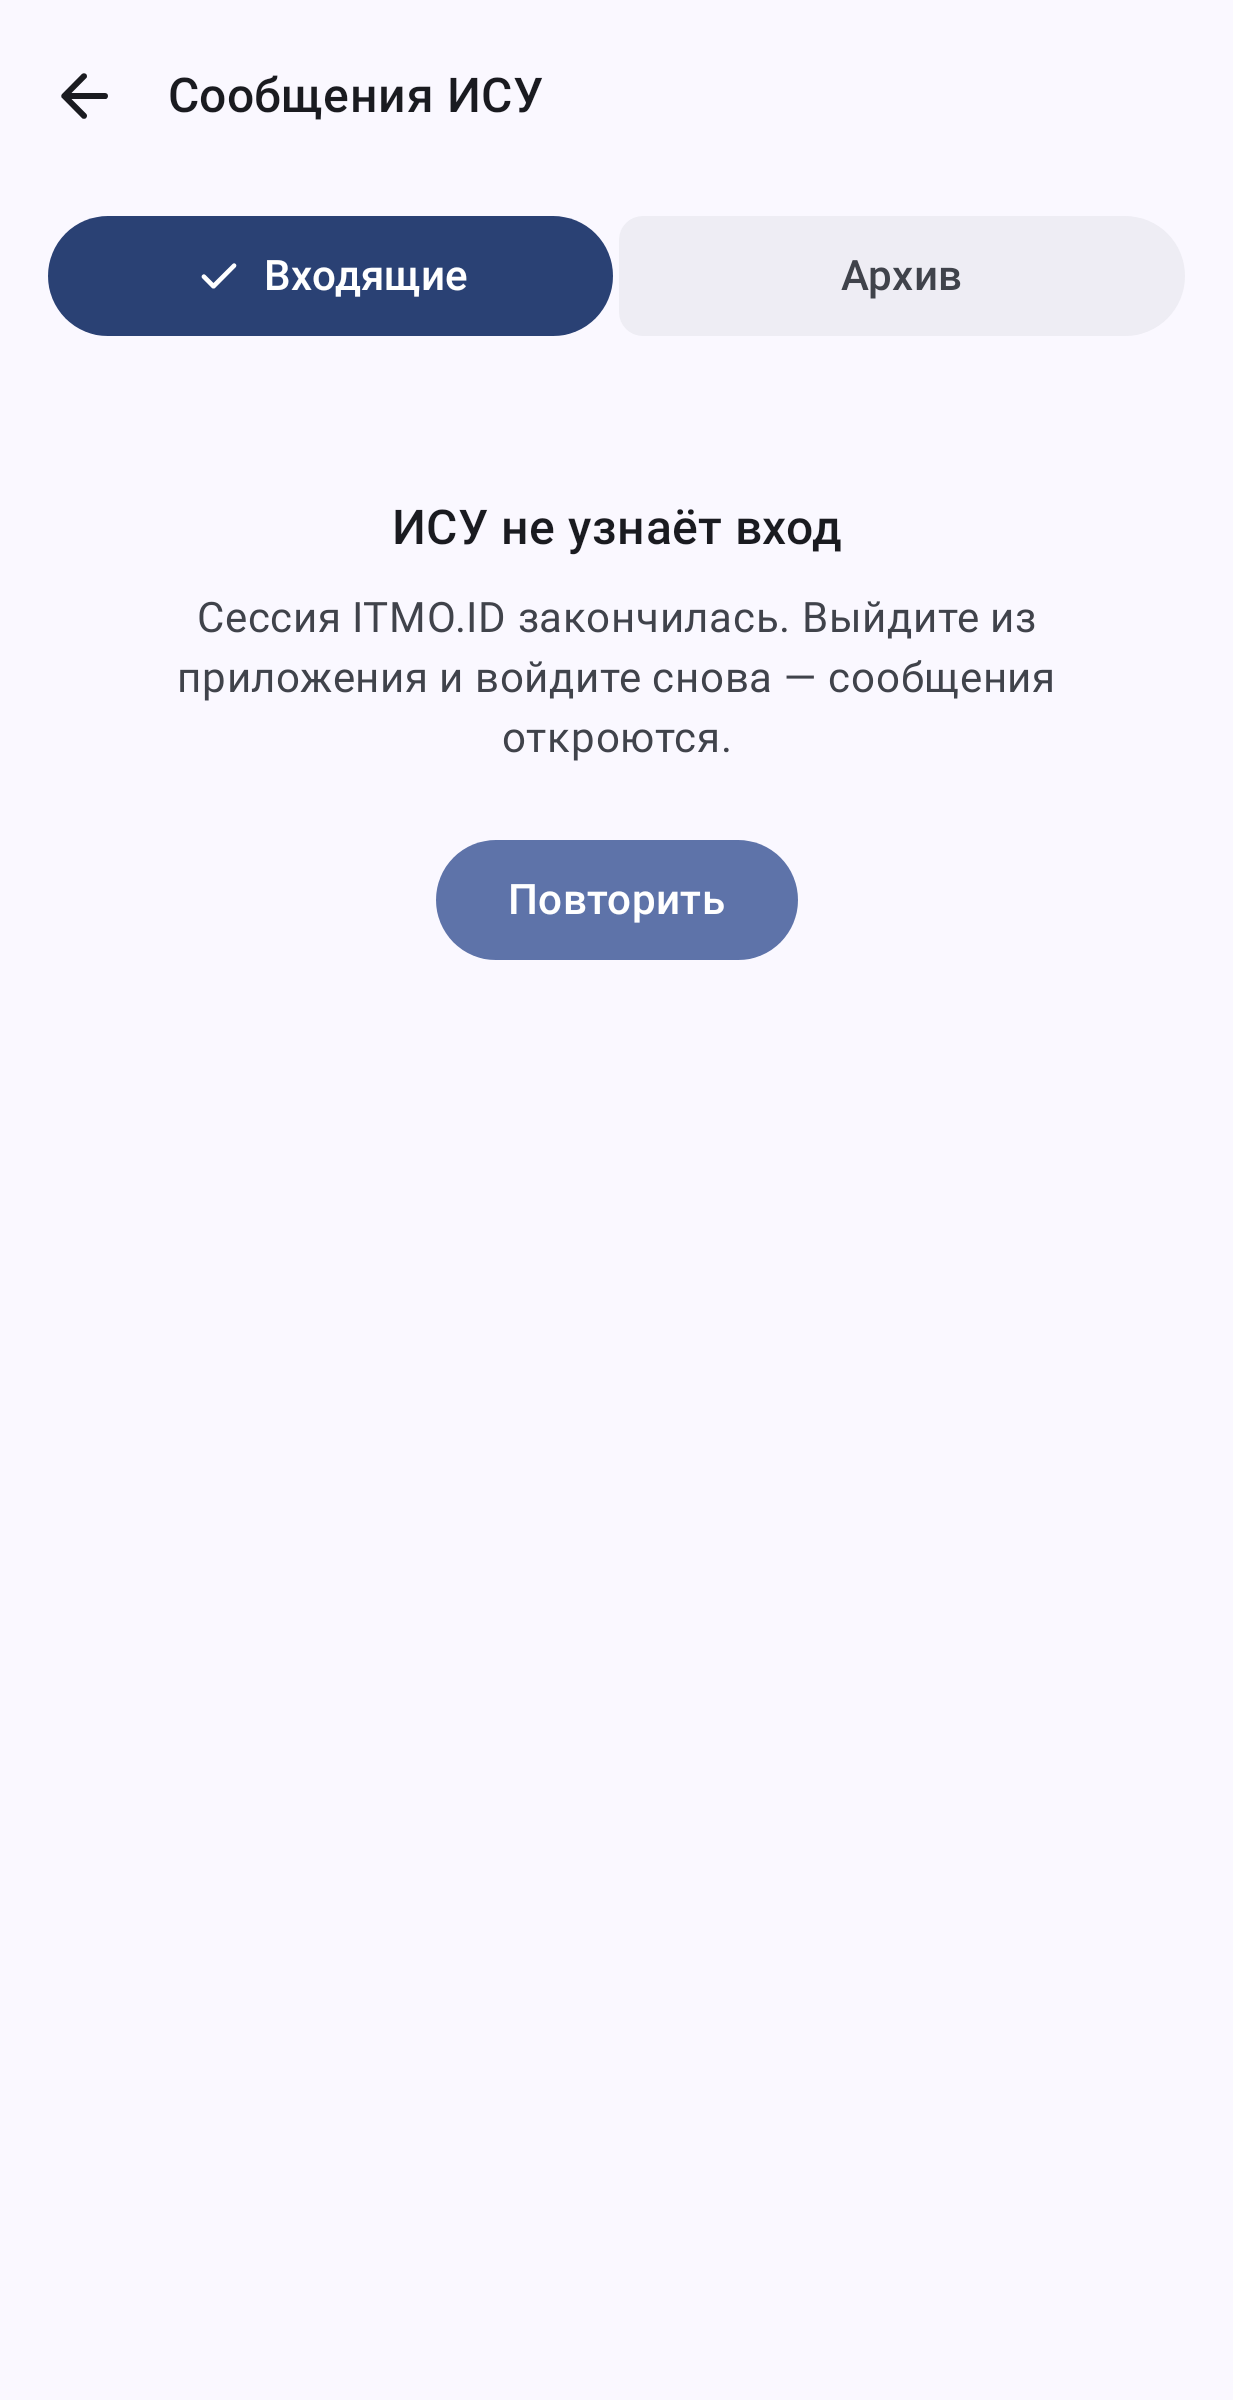
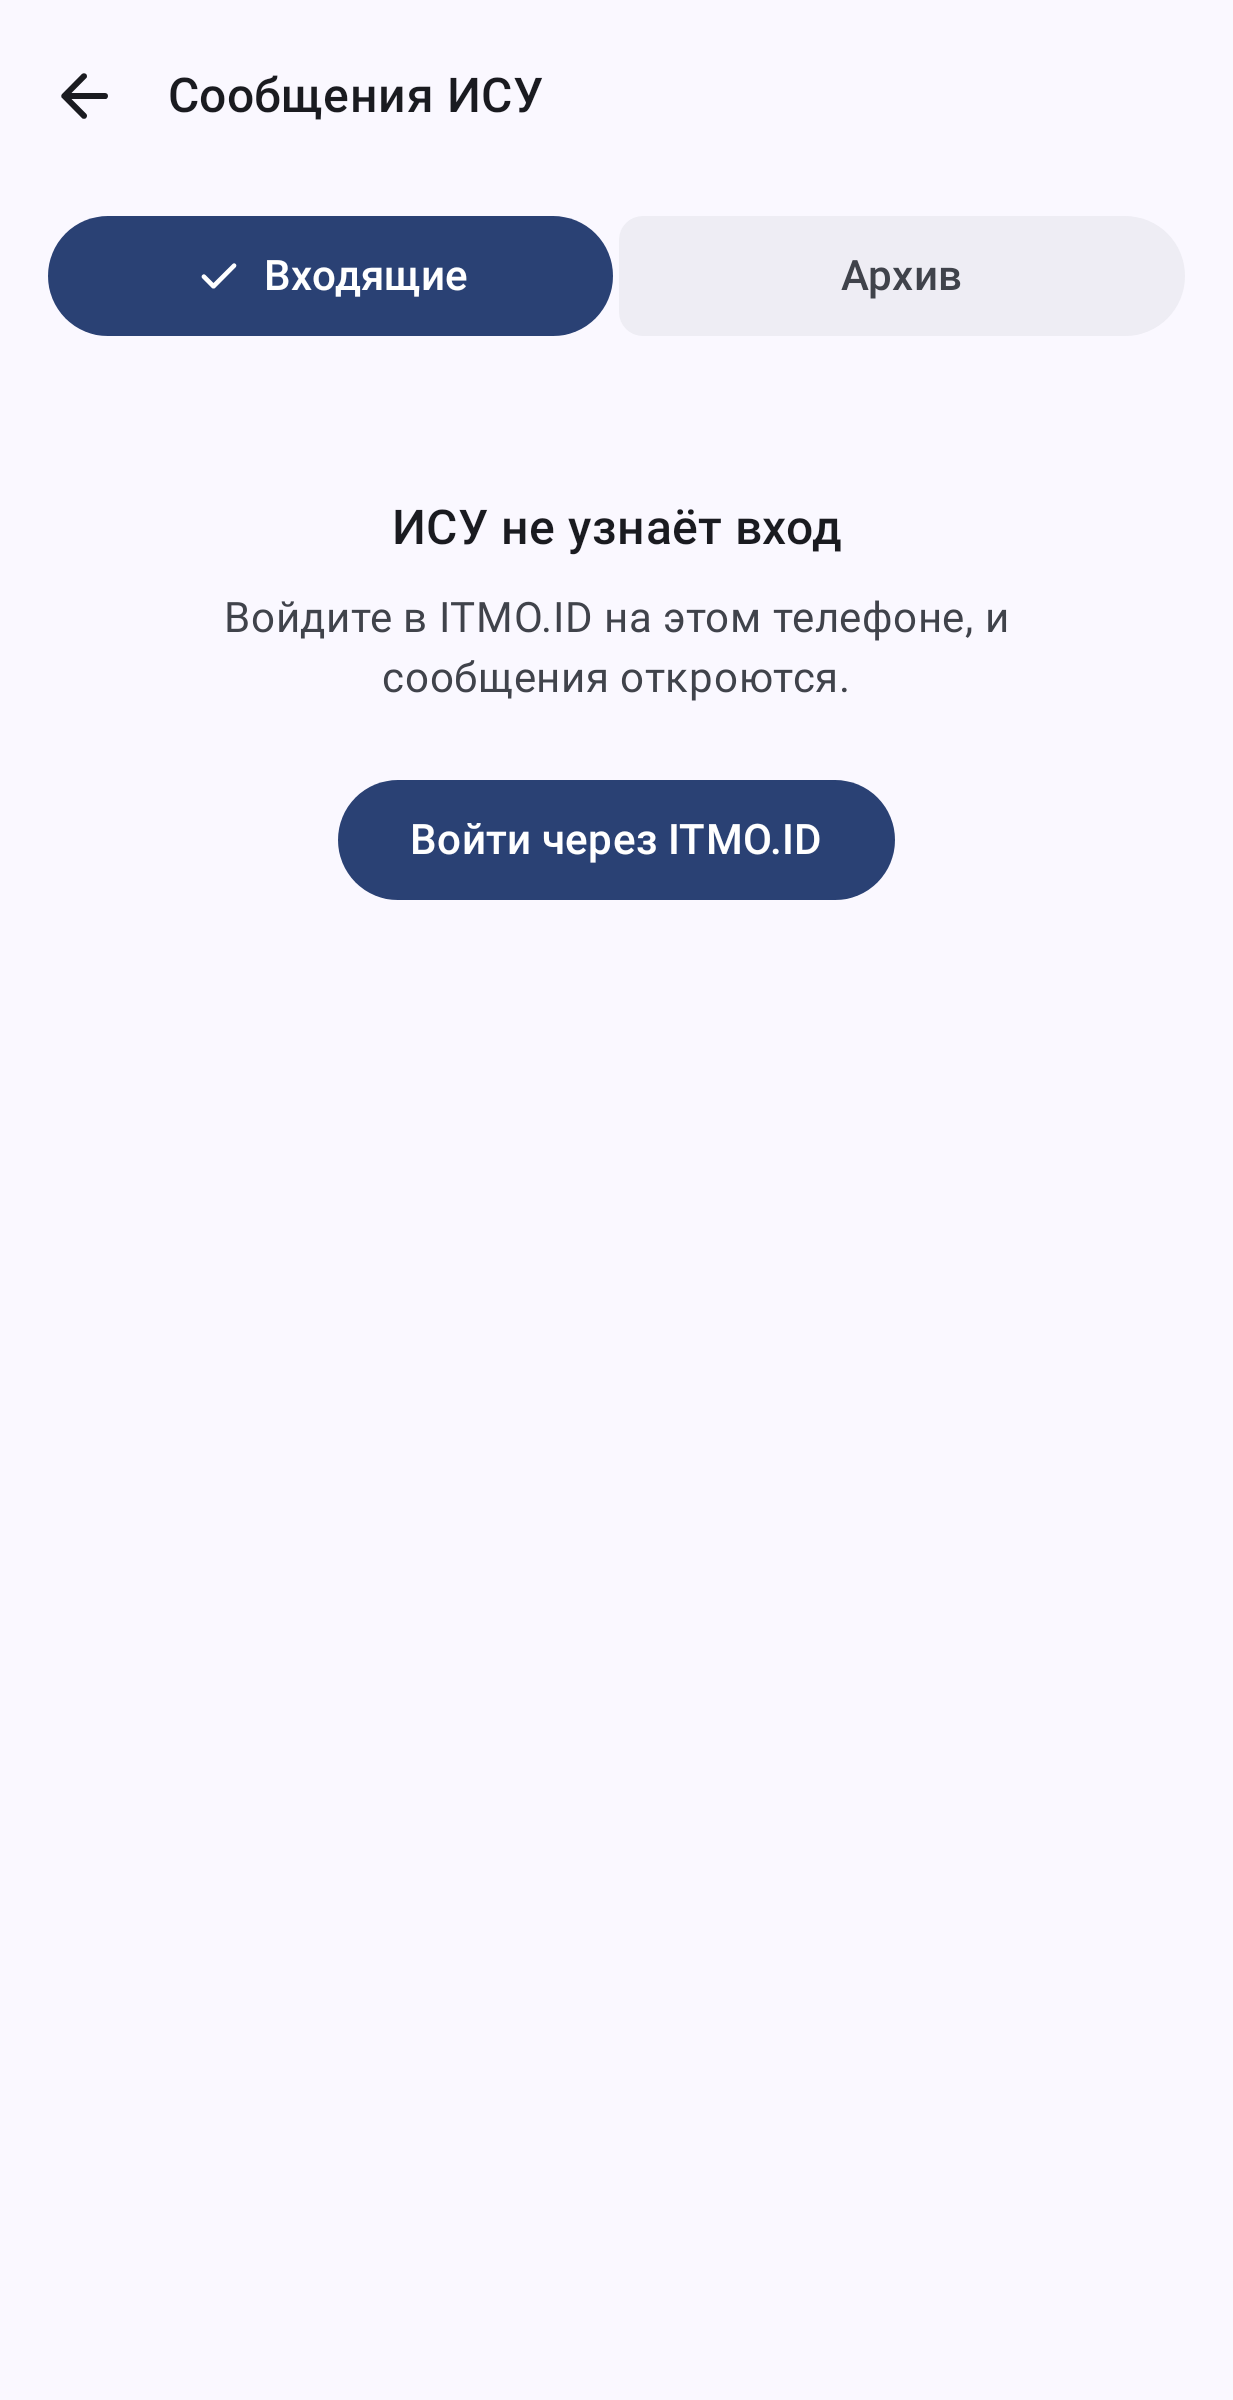
ISU messages: sign in through ITMO.ID in place when ISU has no session

Changed region(s): [[0.1541, 0.25, 0.8321, 0.4062]]

diff --git a/iosApp/Sources/Features/Messages/IsuMessagesScreen.swift b/iosApp/Sources/Features/Messages/IsuMessagesScreen.swift
@@ -4,13 +4,15 @@ import SwiftUI
 
 /// `isu_messages_title` (`AppRoutes.IsuMessages`, docs/features/isu-messages.md) over the shared `IsuMessagesViewModel`:
 /// the inbox and the archive, `isu_messages_more`, one message pushed over the list with its attachments in Quick Look. The body
-/// is the shared view model's plain blocks, never HTML; links open in Safari.
+/// is the shared view model's plain blocks, never HTML; links open in Safari. Without an ITMO.ID session for ISU
+/// `auth_login_itmo_id` opens `BarsLoginSheet` and loads the messages again after it.
 struct IsuMessagesScreen: View {
     @State private var model = ObservableViewModel(IsuMessagesViewModel.self, state: \.uiState)
     @State private var file: URL?
     @State private var message: SettingsMessage?
     /// The last opened message, so the pushed screen keeps its content while it slides away.
     @State private var shown: IsuMessageDetail?
+    @State private var showsSignIn = false
 
     var body: some View {
         IsuMessagesContent(state: model.state, actions: actions)
@@ -27,6 +29,12 @@ struct IsuMessagesScreen: View {
             }
             .onChange(of: model.state.opened) { _, opened in
                 if let opened { shown = opened }
+            }
+            .sheet(isPresented: $showsSignIn) {
+                BarsLoginSheet(title: AppStrings.string("auth_web_title")) {
+                    showsSignIn = false
+                    model.viewModel.signedIn()
+                }
             }
             .observing(model)
             .onEvents(of: model, \.events) { event in
@@ -47,6 +55,7 @@ struct IsuMessagesScreen: View {
         IsuMessagesActions(
             folder: { model.viewModel.selectFolder(folder: $0) },
             retry: { model.viewModel.refresh(mode: .force) },
+            signIn: { showsSignIn = true },
             more: { model.viewModel.loadMore() },
             open: { model.viewModel.open(id: $0) },
             attachment: { model.viewModel.openAttachment(id: $0) }
@@ -72,6 +81,7 @@ struct IsuMessagesScreen: View {
 struct IsuMessagesActions {
     var folder: (IsuFolder) -> Void = { _ in }
     var retry: () -> Void = {}
+    var signIn: () -> Void = {}
     var more: () -> Void = {}
     var open: (Int64) -> Void = { _ in }
     var attachment: (String) -> Void = { _ in }
@@ -102,8 +112,18 @@ struct IsuMessagesContent: View {
         case let .empty(empty):
             ItmoEmptyView(symbol: .mail, title: empty.title.resolved, description: empty.text.resolved)
         case let .failed(failed):
-            ItmoErrorView(title: failed.title.resolved, description: failed.text.resolved, retry: actions.retry)
-                .accessibilityIdentifier("isu_messages.error")
+            if failed.signIn {
+                ItmoErrorView(
+                    title: failed.title.resolved,
+                    description: failed.text.resolved,
+                    retryTitle: AppStrings.string("auth_login_itmo_id"),
+                    retry: actions.signIn
+                )
+                .accessibilityIdentifier("isu_messages.sign_in")
+            } else {
+                ItmoErrorView(title: failed.title.resolved, description: failed.text.resolved, retry: actions.retry)
+                    .accessibilityIdentifier("isu_messages.error")
+            }
         case let .messages(messages):
             ItmoListGroup {
                 ForEach(messages.rows, id: \.id) { row in

diff --git a/shared/feature-messages/src/androidMain/kotlin/dev/alllexey/itmowidgets/feature/messages/ui/IsuMessagesScreen.kt b/shared/feature-messages/src/androidMain/kotlin/dev/alllexey/itmowidgets/feature/messages/ui/IsuMessagesScreen.kt
@@ -49,6 +49,7 @@ import dev.alllexey.itmowidgets.designsystem.components.groups.connectedGroupIte
 import dev.alllexey.itmowidgets.designsystem.components.state.AppRefreshBox
 import dev.alllexey.itmowidgets.designsystem.components.state.ContentState
 import dev.alllexey.itmowidgets.designsystem.components.state.ContentStateAction
+import dev.alllexey.itmowidgets.designsystem.components.state.ContentStateActionStyle
 import dev.alllexey.itmowidgets.designsystem.components.state.ContentStateLoading
 import dev.alllexey.itmowidgets.designsystem.kit.ItmoDetailScreen
 import dev.alllexey.itmowidgets.designsystem.kit.ItmoSnackbarHost
@@ -79,6 +80,8 @@ data class IsuMessagesActions(
     val onFolder: (IsuFolder) -> Unit = {},
     val onRefresh: () -> Unit = {},
     val onRetry: () -> Unit = {},
+    /** `Войти через ITMO.ID` when ISU wants the user: the sign-in that leaves the phone an ITMO.ID session. */
+    val onSignIn: () -> Unit = {},
     val onMore: () -> Unit = {},
     val onOpen: (Long) -> Unit = {},
     val onClose: () -> Unit = {},
@@ -153,7 +156,11 @@ private fun MessageList(state: IsuMessagesUiState, actions: IsuMessagesActions) 
                 ContentState(
                     list.title.asString(),
                     description = list.text.asString(),
-                    action = ContentStateAction(text(CoreStrings.common_retry), actions.onRetry),
+                    action = if (list.signIn) {
+                        ContentStateAction(text(CoreStrings.auth_login_itmo_id), actions.onSignIn, ContentStateActionStyle.Filled)
+                    } else {
+                        ContentStateAction(text(CoreStrings.common_retry), actions.onRetry)
+                    },
                 )
             }
             is IsuMessagesList.Messages -> messages(list, actions)

diff --git a/app/src/main/java/dev/alllexey/itmowidgets/app/shell/entries/MessagesEntries.kt b/app/src/main/java/dev/alllexey/itmowidgets/app/shell/entries/MessagesEntries.kt
@@ -5,17 +5,25 @@ import androidx.compose.ui.platform.LocalContext
 import androidx.lifecycle.ViewModel
 import androidx.lifecycle.createSavedStateHandle
 import androidx.lifecycle.viewmodel.compose.viewModel
+import dev.alllexey.itmowidgets.app.shell.ActivityRoutes
 import dev.alllexey.itmowidgets.app.shell.EntryRegistry
 import dev.alllexey.itmowidgets.core.navigation.AppRoutes
 import dev.alllexey.itmowidgets.di.KoinStarter
+import dev.alllexey.itmowidgets.feature.messages.presentation.IsuMessagesViewModel
 import dev.alllexey.itmowidgets.feature.messages.ui.IsuMessagesRoute
 import org.koin.core.parameter.parametersOf
 
 /** Сообщения ИСУ, pushed from Профиль. */
 internal fun EntryRegistry.Builder.messagesEntries() {
-    entry<AppRoutes.IsuMessages> { key, navigator ->
-        IsuMessagesRoute(entryViewModel(), onBack = { navigator.close(key) })
-    }
+    entry<AppRoutes.IsuMessages> { key, navigator -> IsuMessagesEntry(onBack = { navigator.close(key) }) }
+}
+
+/** `Войти через ITMO.ID` runs the BARS sign-in for its ITMO.ID cookies; a completed one loads the messages again. */
+@Composable
+private fun IsuMessagesEntry(onBack: () -> Unit) {
+    val viewModel: IsuMessagesViewModel = entryViewModel()
+    val signIn = rememberBarsLogin(onSignedIn = viewModel::signedIn, intent = ActivityRoutes::itmoIdLogin)
+    IsuMessagesRoute(viewModel, onBack = onBack, onSignIn = signIn)
 }
 
 /** Koin's definition of [VM] in this entry's own store. */

diff --git a/shared/feature-messages/src/androidMain/kotlin/dev/alllexey/itmowidgets/feature/messages/ui/IsuMessagesRoute.kt b/shared/feature-messages/src/androidMain/kotlin/dev/alllexey/itmowidgets/feature/messages/ui/IsuMessagesRoute.kt
@@ -20,10 +20,16 @@ import dev.alllexey.itmowidgets.feature.messages.presentation.IsuMessagesViewMod
 
 /**
  * The messages screen over its view model. Back closes an opened message first; links go to the system through the
- * host, a downloaded attachment to any app that views its type (`ACTION_VIEW` with a one-off read grant).
+ * host, a downloaded attachment to any app that views its type (`ACTION_VIEW` with a one-off read grant). [onSignIn]
+ * is `Войти через ITMO.ID`; the shell calls [IsuMessagesViewModel.signedIn] after a completed one.
  */
 @Composable
-fun IsuMessagesRoute(viewModel: IsuMessagesViewModel, onBack: () -> Unit, modifier: Modifier = Modifier) {
+fun IsuMessagesRoute(
+    viewModel: IsuMessagesViewModel,
+    onBack: () -> Unit,
+    onSignIn: () -> Unit,
+    modifier: Modifier = Modifier,
+) {
     val state by viewModel.uiState.collectAsStateWithLifecycle()
     val context = LocalContext.current
     val platform = LocalPlatformActions.current
@@ -53,6 +59,7 @@ fun IsuMessagesRoute(viewModel: IsuMessagesViewModel, onBack: () -> Unit, modifi
             onFolder = viewModel::selectFolder,
             onRefresh = { viewModel.refresh() },
             onRetry = { viewModel.refresh(RefreshMode.Force) },
+            onSignIn = onSignIn,
             onMore = viewModel::loadMore,
             onOpen = viewModel::open,
             onClose = viewModel::close,

diff --git a/shared/feature-messages/src/commonTest/kotlin/dev/alllexey/itmowidgets/feature/messages/presentation/IsuMessagesViewModelTest.kt b/shared/feature-messages/src/commonTest/kotlin/dev/alllexey/itmowidgets/feature/messages/presentation/IsuMessagesViewModelTest.kt
@@ -106,6 +106,27 @@ class IsuMessagesViewModelTest {
     }
 
     @Test
+    fun aCompletedSignInLoadsBothFailedFoldersAgain() = runTest(main.dispatcher) {
+        repository.failure = AppError.Unauthorized
+        val viewModel = viewModel()
+        viewModel.loaded()
+        viewModel.selectFolder(IsuFolder.ARCHIVE)
+        assertIs<IsuMessagesList.Failed>(current(viewModel).list)
+        viewModel.selectFolder(IsuFolder.INBOX)
+
+        repository.failure = null
+        repository.pages[IsuFolder.INBOX to 1] = page(listOf(message(1)))
+        repository.pages[IsuFolder.ARCHIVE to 1] = page(listOf(message(2)))
+        viewModel.signedIn()
+        val inbox = assertIs<IsuMessagesList.Messages>(current(viewModel).list)
+        viewModel.selectFolder(IsuFolder.ARCHIVE)
+        val archive = assertIs<IsuMessagesList.Messages>(current(viewModel).list)
+
+        assertEquals(listOf(1L), inbox.rows.map { it.id })
+        assertEquals(listOf(2L), archive.rows.map { it.id })
+    }
+
+    @Test
     fun aFailedRefreshKeepsTheListAndSaysSo() = runTest(main.dispatcher) {
         repository.pages[IsuFolder.INBOX to 1] = page(listOf(message(1)))
         val viewModel = viewModel()

diff --git a/shared/feature-messages/src/commonMain/kotlin/dev/alllexey/itmowidgets/feature/messages/presentation/IsuMessagesViewModel.kt b/shared/feature-messages/src/commonMain/kotlin/dev/alllexey/itmowidgets/feature/messages/presentation/IsuMessagesViewModel.kt
@@ -56,6 +56,12 @@ class IsuMessagesViewModel(
     /** A pull or a retry reloads the shown folder from its first page. */
     fun refresh(mode: RefreshMode = RefreshMode.Pull) = load(model.value.folder, mode)
 
+    /** A completed ITMO.ID sign-in: the folders that failed load again, the shown one at once. */
+    fun signedIn() {
+        model.update { state -> state.copy(folders = state.folders.filterValues { it !is Folder.Failed }) }
+        load(model.value.folder, RefreshMode.Silent)
+    }
+
     fun selectFolder(folder: IsuFolder) {
         if (folder == model.value.folder) return
         model.update { it.copy(folder = folder, opened = null) }

diff --git a/shared/feature-messages/src/commonMain/kotlin/dev/alllexey/itmowidgets/feature/messages/presentation/IsuMessagesUiState.kt b/shared/feature-messages/src/commonMain/kotlin/dev/alllexey/itmowidgets/feature/messages/presentation/IsuMessagesUiState.kt
@@ -26,7 +26,7 @@ sealed interface IsuMessagesList {
     /** No message in the folder: [title] and [text] say which folder. */
     data class Empty(val title: UiText, val text: UiText) : IsuMessagesList
 
-    /** The first page failed; [signIn] when ITMO.ID no longer signs in to ISU. */
+    /** The first page failed; [signIn] when ITMO.ID does not sign in to ISU: the screen offers `Войти через ITMO.ID`. */
     data class Failed(val title: UiText, val text: UiText, val signIn: Boolean) : IsuMessagesList
 
     data class Messages(val rows: List<IsuMessageRow>, val more: MoreState) : IsuMessagesList

diff --git a/docs/features/isu-messages.md b/docs/features/isu-messages.md
@@ -26,9 +26,12 @@ attachment download were not run on a device yet.
 - Links in the body open outside the app (`PlatformActions.openLink` on Android, Safari on iOS). An attachment is
   downloaded and opened in the system viewer: Android `ACTION_VIEW` on a `content://` address of the app's
   `FileProvider` (`cache/isu-files`), iOS Quick Look on `tmp/isu-files`. Only the last opened file is kept.
-- States: loading; empty (`Сообщений нет`, `В архиве пусто`); `ИСУ не узнаёт вход` when ITMO.ID no longer signs in
-  (sign out and in again); `Сообщения не загрузились` with the error's text. A failed refresh keeps the list and
-  shows a snackbar.
+- States: loading; empty (`Сообщений нет`, `В архиве пусто`); `ИСУ не узнаёт вход` when ITMO.ID does not sign in
+  (no SSO cookies on the phone, or they expired); `Сообщения не загрузились` with the error's text. A failed refresh
+  keeps the list and shows a snackbar.
+- `ИСУ не узнаёт вход` offers `Войти через ITMO.ID`, the BARS sign-in titled for ITMO.ID (`ActivityRoutes.itmoIdLogin`
+  on Android, `BarsLoginSheet(title:)` on iOS), as the [Wi-Fi sheet](wifi.md#sheet) does: it leaves the ITMO.ID
+  cookies `IsuWebClient` reads, and a completed one calls `signedIn()`, which loads the failed folders again.
 
 Why Профиль: the screen needs one ISU login (several redirects) per session, which Сегодня should not pay on every
 open, and the row needs no new contract between features. An unread card on Сегодня is a later step once the poll

diff --git a/CHANGELOG.md b/CHANGELOG.md
@@ -189,7 +189,8 @@ on Android and native SwiftUI screens in a new iOS app. Android keeps the featur
 - A prototype `Сообщения ИСУ` in Профиль on both platforms: the own ISU inbox and archive, read on the device through
   the shared ISU client (ADR 0037). Unread counter, ten messages a page, a message's text without HTML,
   links in the browser, attachments in the system viewer. Opening a message leaves it unread in ISU; nothing goes to
-  Backend. The demo shows fictional messages.
+  Backend. The demo shows fictional messages. Without an ITMO.ID sign-in on the phone the screen offers
+  `Войти через ITMO.ID` and loads again after it.
 
 ### Widgets
 
